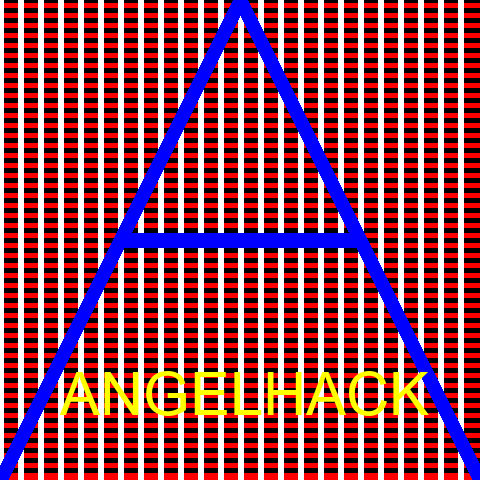
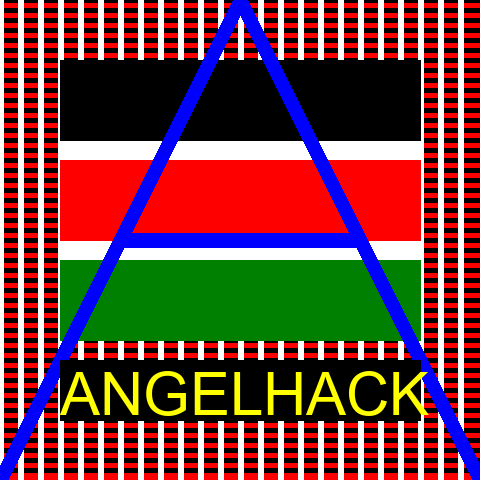
added flag

diff --git a/artt.py b/artt.py
@@ -20,7 +20,25 @@ def generate_artt():
         line_xy = (i, 0, i, 480)
         line_color = (255, 255, 255)
         draw.line(line_xy, fill=line_color, width=6)
-    
+
+    #draw flag base
+    flag_bs = (60, 60, 420, 340)
+    flag_color = (255, 255, 255)
+    draw.rectangle(flag_bs, fill=flag_color)
+
+    flag_bl = (60, 60, 420, 140)
+    flag_color = (0, 0, 0)
+    draw.rectangle(flag_bl, fill=flag_color)
+
+    flag_rd = (60, 160, 420, 240)
+    flag_color = (255, 0, 0)
+    draw.rectangle(flag_rd, fill=flag_color)
+
+    flag_gn = (60, 260, 420, 340)
+    flag_color = (0, 128, 0)
+    draw.rectangle(flag_gn, fill=flag_color)
+
+    #draw letter A
     line_bn = (240, 0, 480, 480)
     line_color = (0, 0, 255)
     draw.line(line_bn, fill=line_color, width=15)
@@ -33,6 +51,13 @@ def generate_artt():
     line_color = (0, 0, 255)
     draw.line(line_bn, fill=line_color, width=15)
 
+    #add background to text
+    bg_bn = (60, 360, 420, 420)
+    bg_color = (0, 0, 0)
+    draw.rectangle(bg_bn, fill=bg_color)
+
+
+    #add text to image
     myfont = ImageFont.truetype("arial.ttf", 60)
     draw.text((60, 360), "ANGELHACK", font=myfont, fill=(255, 255, 0))
     
